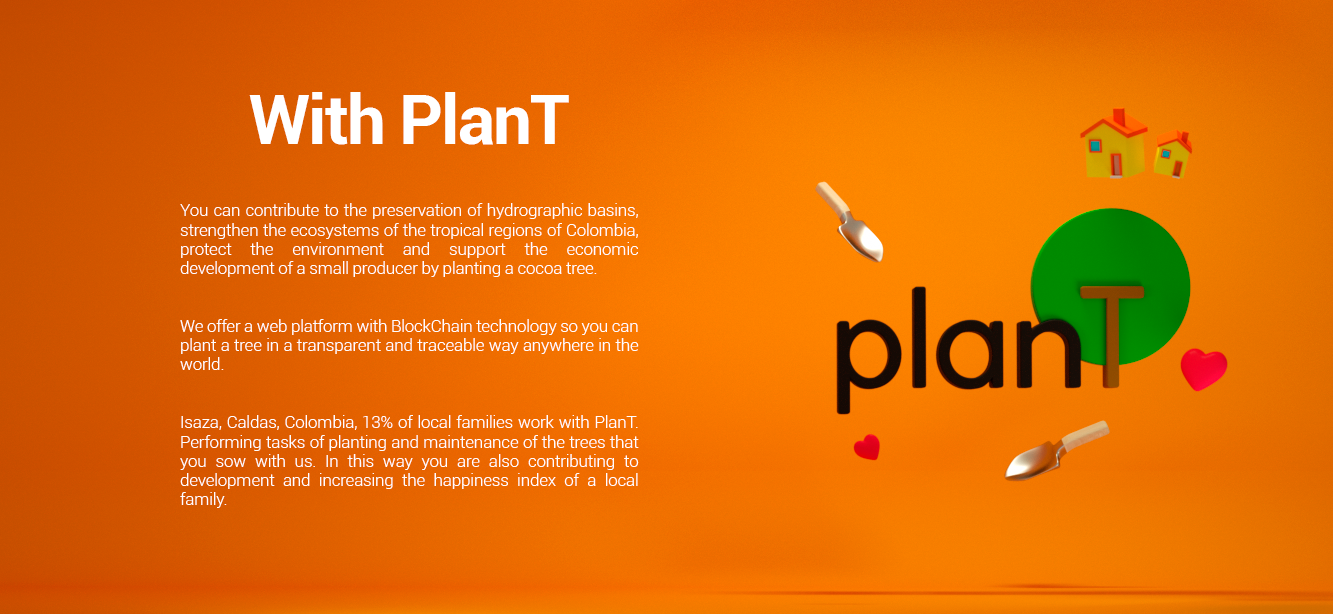
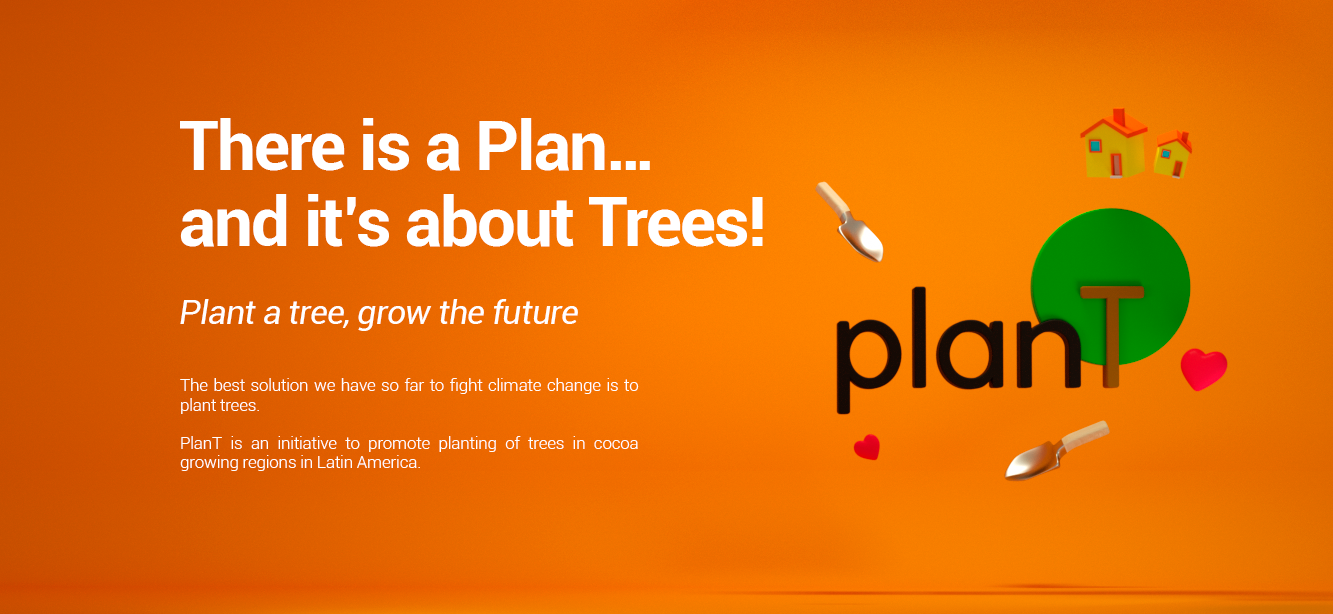
all

Changed region(s): [[0.123, 0.4951, 0.4921, 0.8355], [0.123, 0.3094, 0.5844, 0.4642], [0.123, 0.1547, 0.4921, 0.2785]]

diff --git a/WebContent/style.css b/WebContent/style.css
@@ -1,69 +1,111 @@
-
-h1{
+h1 {
 	font-family: 'Roboto', sans-serif;
-	fontsize:20px;
-	line-height:1.3em;
+	fontsize: 20px;
+	line-height: 1.3em;
 	text-align: center;
 	color: #7ebb76;
-	}
-h2{
+}
+h2 {
 	font-family: 'Roboto', sans-serif;
-	fontsize:10vw;
-	line-height:1.3em;
+	fontsize: 10vw;
+	line-height: 1.3em;
 	text-align: left;
 	color: #7ebb76;
-	}
-
+}
 p {
-		font-family: 'Roboto', sans-serif;
-}
-
-.header {
-	
-	background:#7EBB76;
-	overflow: hidden;
-    padding: 20px 10px;
-
-}
- .menu {
- 
-  float: left;
-  color: black;
-  text-align: center;
-  padding: 12px;
-  text-decoration: none;
-  font-size: 18px;
-  line-height: 25px;
-  border-radius: 4px;
-}
-  
-
-	
-	
-.contenedor{
-    position: relative;
-    display: inline-block;
-    text-align: center;
-    font-family: 'Roboto', sans-serif;
-    
-}
- 
-
-.centrado{
 	font-family: 'Roboto', sans-serif;
-    position: absolute;
-    top: 50%;
-    left: 50%;
-    transform: translate(-50%, -50%);
-    color: white;
-    fontsize:20px;
-    font-variant: full-width;
 }
-	
+.header {
+	background: #7EBB76;
+	overflow: hidden;
+	padding: 19px 10px;
+}
+.menu {
+	float: left;
+	color: black;
+	text-align: center;
+	padding: 12px;
+	text-decoration: none;
+	font-size: 18px;
+	line-height: 25px;
+	border-radius: 4px;
+}
+.contenedor {
+	position: absolute;
+	text-align: center;	
+}
+.centrado {
+	font-family: 'Roboto', sans-serif;
+	position: absolute;
+	top: 50%;
+	left: 50%;
+	transform: translate(-50%, -50%);
+	color: white;
+	fontsize: 1.5em;
+	width:100%;
+}
+.slider {
+	width: 100%;
+	margin-top: -32px;
+	overflow: hidden;
+}
+.slider ul {
+	display: flex;
+	padding: 0;
+	width: 500%;
+	list-style: none;
+	animation: cambio 20s infinite alternate linear;
+}
+.slider li {
+	width: 100%;
+}
+.slider img {
+	width: 100%
+}
 
+@keyframes cambio {
+	0% {margin-left: 0;}
+	20% {margin-left: 0;}
 	
+	25% {margin-left: -100%;}
+	45% {margin-left: -100%;}
 	
+	50% {margin-left: -200%;}
+	70% {margin-left: -200%;}
 	
+	75% {margin-left: -300%;}
+	100% {margin-left: -300%;}
+	
+	105% {margin-left: -400%;}
+	135% {margin-left: -400%;}
+}
 
+.slider2 {
+	width: 100%;
+	margin-top: -32px;
+	overflow: hidden;
+}
+.slider2 ul {
+	display: flex;
+	padding: 0;
+	width: 300%;
+	list-style: none;
+	animation: cambio2 50s infinite alternate linear;
+}
+.slider2 li {
+	width: 100%;
+}
+.slider2 img {
+	width: 100%
+}
+
+@keyframes cambio2 {
+	0% {margin-left: 0;}
+	20% {margin-left: 0;}
 	
+	25% {margin-left: -100%;}
+	45% {margin-left: -100%;}
 	
+	50% {margin-left: -200%;}
+	70% {margin-left: -200%;}
+}

diff --git a/WebContent/banner.html b/WebContent/banner.html
@@ -1,0 +1,17 @@
+<?xml version="1.0" encoding="ISO-8859-1" ?>
+<!DOCTYPE html PUBLIC "-//W3C//DTD XHTML 1.0 Frameset//EN" "http://www.w3.org/TR/xhtml1/DTD/xhtml1-frameset.dtd">
+<html xmlns="http://www.w3.org/1999/xhtml">
+<head>
+<meta charset="UTF-8"></meta>
+	<meta name="viewport"
+		content="width=device-width, initial-scale=1, maximun-scale=1, minimun-scale=1">
+	</meta>
+	<link rel="stylesheet" href="style.css"></link>
+</head>
+    <body>
+    
+    
+   
+    </body>
+   
+</html>

diff --git a/src/main/java/com/colcocoa/entities/Usuarios.java b/src/main/java/com/colcocoa/entities/Usuarios.java
@@ -60,6 +60,9 @@ public class Usuarios extends BaseEntity{
 	@Column(name = "TYPE_DOCUMENT")
 	private EnumTipoDocumento tipoDocumento;
 	
+	@Column(name = "ORGANIZACION")
+	private String organizacion;
+	
 	
 	public Integer getId() {
 		return id;
@@ -156,7 +159,15 @@ public class Usuarios extends BaseEntity{
 	public void setTipoDocumento(EnumTipoDocumento tipoDocumento) {
 		this.tipoDocumento = tipoDocumento;
 	}
-	
+		
+	public String getOrganizacion() {
+		return organizacion;
+	}
+
+	public void setOrganizacion(String organizacion) {
+		this.organizacion = organizacion;
+	}
+
 	@Override
 	public int hashCode() {
 		final int prime = 31;

diff --git a/src/main/java/com/colcoa/beans/PlantarBean.java b/src/main/java/com/colcoa/beans/PlantarBean.java
@@ -95,7 +95,7 @@ public class PlantarBean{
 				amount.setTotal(value.toString());
 			}
 		}else {
-			Double value = new Double("1.75");
+			Double value = new Double("3.0");
 			value = value * numeroArboles;
 			details.setSubtotal(value.toString());
 			// Total must be equal to sum of shipping, tax and subtotal.
